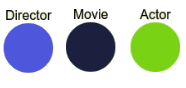
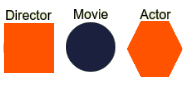
Adding pie and updating legends and colors

diff --git a/js/main.js b/js/main.js
@@ -1,17 +1,6 @@
 var MinYear = 1960;
 var MaxYear = (new Date()).getFullYear();
 var doubleClickDelayMs = 350;
-var hueColors = {
-  1: "#d10f02",
-  2: "#EB4F1F",
-  3: "#FF8055",
-  4: "#F6AC33",
-  5: "#B5A108",
-  6: "#f7eb11",
-  7: "#1CA79B",
-  8: "#0C7291",
-  9: "#E60093"
-}
 var previousTapStamp;
 String.prototype.replaceAll = function(search, replacement) {
     var target = this;
@@ -29,11 +18,24 @@ function toIdName(name){
 function getNode(id, name, type) {
   //colors: ['#51b5ce', '#89c733', '#54a329','#2f7ed8', '#0d233a', '#8bbc21', '#910000', '#1aadce', '#492970', '#f28f43', '#77a1e5', '#c42525', '#a6c96a'],
   var colors = {
-    "director": "#2f7ed8",
+    "director": "#FD5E00",
     "movie": "#0d233a",
-    "actor": "#8bbc21"
+    "actor": "#FD5E00"
   }
-  this.Nodes[id] = { id: id, name: name, faveColor: '#ccc'};
+  var shapes = {
+    "director": "hexagon",
+    "movie": "ellipse",
+    "actor": "rectangle"
+  }
+  this.Nodes[id] = {
+    id: id,
+    name: name,
+    faveColor: '#ccc',
+    weight: 30
+  };
+  if(shapes[type]){
+    this.Nodes[id].faveShape = shapes[type]
+  }
   if (type) {
     this.Nodes[id].faveColor = colors[type];
     this.Nodes[id].type = type;
@@ -77,7 +79,7 @@ function updateGraph(finalToAdd){
 }
 function pointClick(e) {
   addActorsAndMovie(Demo.Movies[e.point.id]);
-  $(".nodes").addClass("add-bg")
+  $(".add-legend").addClass("add-bg")
   $(".footnote, .actions").show()
 }
 
@@ -198,7 +200,6 @@ var Chart = {
       backgroundColor: 'rgba(255, 255, 255, 0.0)'
     },
     chart: {
-      type: 'column',
       backgroundColor: 'rgba(255, 255, 255, 0.0)'
     },
     title: {
@@ -291,7 +292,7 @@ function shadeBlend(p,c0,c1) {
 window.COLORS={}
 function colors(){
   var color1 = "#BBBBE3";
-  var color2 = "#0A0576";
+  var color2 = "#5A003C";
   var i=1;
   while(i<=100) {
     COLORS[i] = shadeBlend(i/100,color1,color2);
@@ -385,6 +386,10 @@ function parseCSV(result){
   renderChart();
 }
 function renderNodes() {
+  var $container = $(".radial-node")
+  $(".nodes")
+    .height($container.height() - 80)
+    .width($container.width())
   cytoscape({
     container: document.getElementById('nodes'),
 
@@ -396,6 +401,7 @@ function renderNodes() {
     style: cytoscape.stylesheet()
       .selector('node')
         .css({
+        'shape': 'data(faveShape)',
         'content': 'data(name)',
         'font-size': 8,
         'background-color': '#E89393',
@@ -446,21 +452,52 @@ function showRevenueFor(clickedItem){
   }
   var final = [
     {
+      type: "column", 
       name: "Revenue",
       data: [],
-      color: '#658CFF'
+      color: '#36009D'
     },
     {
+      type: "column", 
       name: "Budget",
       data: [],
-      color: '#FCAD12'
+      color: '#FAA200'
     },
+    {
+      type: 'pie',
+      name: 'Total consumption',
+      data: [
+        {
+          name: 'Revenue',
+          y: 0,
+          color: '#36009D'
+        }, {
+          name: 'Budget',
+          y: 0,
+          color: '#FAA200'
+        }
+      ],
+      center: ["90%", "15%"],
+      size: 100,
+      showInLegend: false,
+      dataLabels: {
+        enabled: false
+      }
+    }
   ]
   Chart.bar.xAxis.categories = []
   _.map(data, function(movie){
     Chart.bar.xAxis.categories.push(movie.movie_title)
-    final[0].data.push(parseInt(movie.gross))
-    final[1].data.push(parseInt(movie.budget))
+    var gross = parseInt(movie.gross);
+    final[0].data.push(gross)
+    if (_.isInteger(gross)) {
+      final[2].data[0].y+=gross;
+    }
+    var budget = parseInt(movie.budget);
+    final[1].data.push(budget)
+    if (_.isInteger(budget)) {
+      final[2].data[1].y+=budget;
+    }
   });
   Chart.bar.title.text = `Revenue for ${nodeObj.name}`;
   Chart.bar.series = final;

diff --git a/css/demo.css b/css/demo.css
@@ -93,14 +93,14 @@ body {
   font: 14px helvetica neue, helvetica, arial, sans-serif;
 }
 
-#nodes {
+.connections-title {
+  font-size: 26pt;
+  text-align: center
+}
+.nodes{
   height: 100%;
   width: 100%;
-  position: absolute;
-  left: 0;
-  top: 0;
-  font-size: 26pt;
-}
+ }
 .green{
   color: #419800;
 }
@@ -114,19 +114,18 @@ body {
   border-bottom: 2px solid #ccc;
 }
 .radial-node {
-  /* Permalink - use to edit and share this gradient: http://colorzilla.com/gradient-editor/#fcfff4+37,e9e9ce+94 */
-  background: #fcfff4; /* Old browsers */
-  background: -moz-radial-gradient(center, ellipse cover, #fcfff4 37%, #e9e9ce 94%); /* FF3.6-15 */
-  background: -webkit-radial-gradient(center, ellipse cover, #fcfff4 37%,#e9e9ce 94%); /* Chrome10-25,Safari5.1-6 */
-  background: radial-gradient(ellipse at center, #fcfff4 37%,#e9e9ce 94%); /* W3C, IE10+, FF16+, Chrome26+, Opera12+, Safari7+ */
-  filter: progid:DXImageTransform.Microsoft.gradient( startColorstr='#fcfff4', endColorstr='#e9e9ce',GradientType=1 ); /* IE6-9 fallback on horizontal gradient */
+    background: rgb(255,255,255);
+  background: radial-gradient(circle, rgba(255,255,255,1) 0%, #EDEDFF 100%);
 }
-.nodes.add-bg{
+.add-legend.add-bg{
 
   background-image: url('../images/legends.png');
   background-repeat: no-repeat;
   background-size: 140px 70px;
   background-position: left 10px top 10px;
+}
+.radial-node button{
+  background-color: #cdc8c8;
 }
 .radial-revenue {
   background: rgb(255,255,255);
@@ -134,7 +133,7 @@ background: radial-gradient(circle, rgba(255,255,255,1) 0%, rgba(247,252,187,1) 
 }
 .radial-scatter {
   background: rgb(255,255,255);
-background: radial-gradient(circle, rgba(255,255,255,1) 0%, rgba(255,241,220,1) 100%);
+background: radial-gradient(circle, rgba(255,255,255,1) 0%, #FFF9A3 100%);
 }
 .m-15{
   margin-top: 15px;

diff --git a/index.html b/index.html
@@ -49,13 +49,19 @@
           </div>
         </div>
       </div>
-      <div class="col-6 h-100 radial-node">
-        <div id="nodes" class="nodes">
-          <div style="font-size: 26pt;text-align: center" class="mx-auto">Movie/Actor associations</div>
-          <div class="footnote" style="display: none"> Right click for options </div>
-          <div class="btn-group actions" style="display: none; position: absolute; top: 10px; right: 10px;" role="group" aria-label="Basic example">
-            <button type="button" class="btn refresh btn-secondary">Refresh</button>
-            <button type="button" class="btn clear btn-secondary">Clear All</button>
+      <div class="col-6 h-100 radial-node  add-legend">
+        <div class="row">
+          <div class="col-12 heading-contents">
+            <div class="mx-auto connections-title">Movie/Actor associations</div>
+            <div class="footnote" style="display: none"> Right click for options </div>
+            <div class="btn-group actions" style="display: none; position: absolute; top: 10px; right: 10px;" role="group" aria-label="Basic example">
+              <button type="button" class="btn refresh btn-secondary">Refresh</button>
+              <button type="button" class="btn clear btn-secondary">Clear All</button>
+            </div>
+          </div>
+        </div>
+        <div class="row">
+          <div id="nodes" class="nodes">
           </div>
         </div>
       </div>
